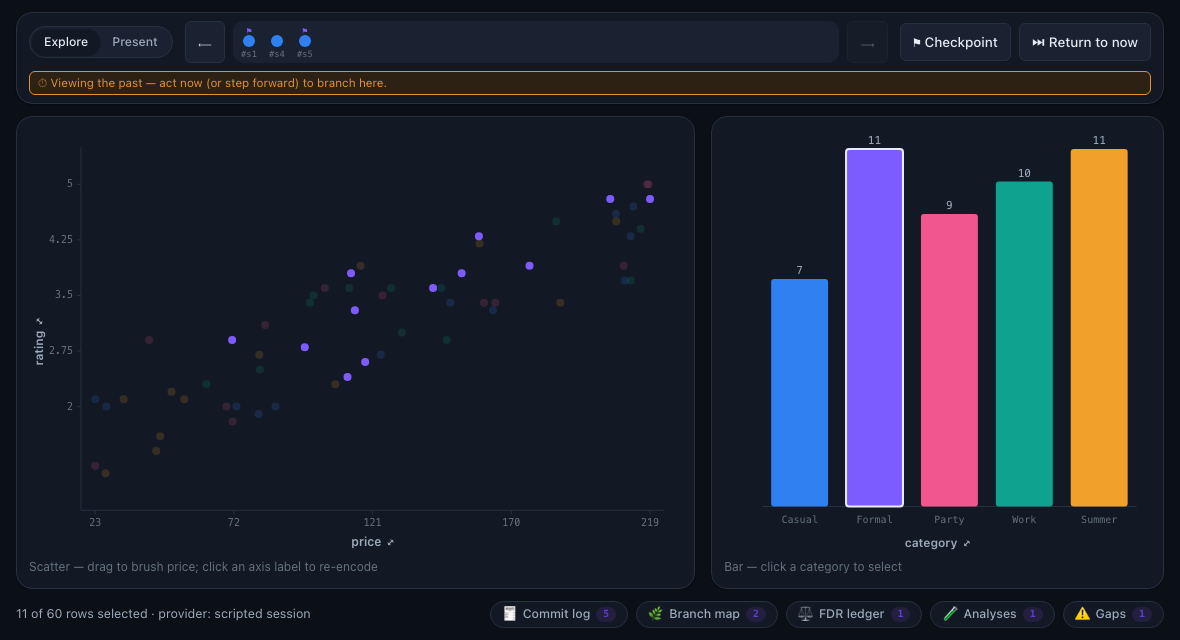
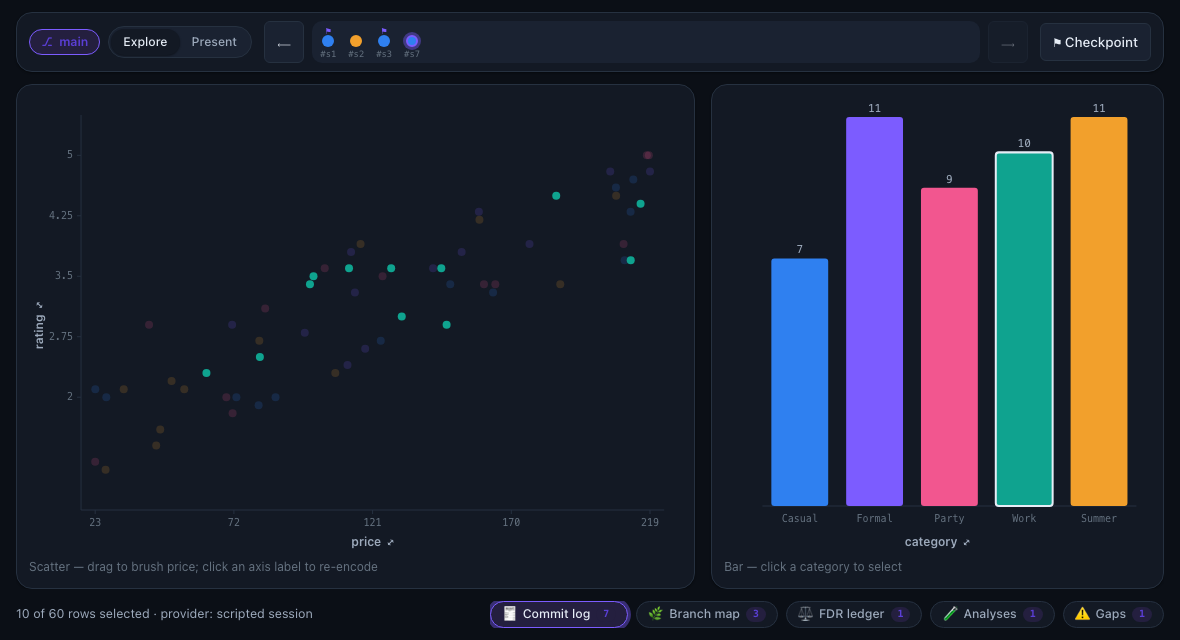
feat(ui/gallery): the BR-2 loop live — fork toast, pill, paths modal, compare, bring-over; smoke + screenshots
The gallery cockpit now wires the whole named-paths family the way a consumer
would: BranchPill in the time bar's pathPill slot, ForkToast + PathsModal +
CompareModal in the cockpit's toast host, and the branch-map report gets
paths + the full context-menu action set (compare routes into CompareModal
with the clicked commit pre-picked).

Four new Playwright smoke scenes over the scripted REAL session, all
end-to-end in headless Chromium:
- fork from the past: pill honestly 'viewing past' after the present-mode
  walk → seek to #s1 → click a bar → the auto-named 'bar-click' path is born,
  the toast announces it, the pill re-attaches; zero page/shell scroll with
  the toast up;
- PathsModal: three paths listed current-first, inline rename to 'my-fork'
  (Enter), switch to main closes the modal and flips the pill;
- branch map: named lane labels (main in violet), Undo honestly disabled on
  the declared-test commit ('never refunds alpha'), Compare with current →
  a real two-path diff (common ancestor #s1, per-side row counts, ≠ selection
  chips, the only-B correlation chip); Esc peels only the top modal;
- Bring this step over: lands a replayedFrom commit whose CommitLog chip says
  'brought over from #x' with its honest '1 overridden' conflict tag.

Screenshots refreshed under UPDATE_SCREENSHOTS=1; new: paths modal, compare
modal, fork toast, pill states light+dark (on-path + viewing-past).
README: 'Named paths — branching you can read' section + the BR-3 endpoint
[…]

diff --git a/ui/gallery/smoke.test.ts b/ui/gallery/smoke.test.ts
@@ -16,6 +16,12 @@
  *     scrolling allowed only INSIDE the modal body;
  *   - ⚑ opens the checkpoint naming modal; Enter lands a REAL checkpoint;
  *   - PRESENT mode is checkpoint-only traversal and dims/blocks the charts;
+ *   - BR-2, the full named-paths loop LIVE: acting from a past cursor forks a
+ *     NAMED path (ForkToast + BranchPill update), the PathsModal renames and
+ *     switches, the branch map wears named lane labels and a per-commit glass
+ *     context menu (undo honestly disabled on an analysis), "Compare with
+ *     current" opens a real two-path diff, and "Bring this step over" lands a
+ *     replayedFrom commit visible in the CommitLog;
  *   - at a MOBILE viewport the charts become a scroll-snap carousel with dot
  *     indicators — still zero page scroll;
  *   - zero console errors throughout.
@@ -39,6 +45,10 @@ const SHOTS = path.join(__dirname, 'screenshots');
 //   UPDATE_SCREENSHOTS=1 npx vitest run ui/gallery/smoke.test.ts
 async function maybeScreenshot(page: Page, options: Parameters<Page['screenshot']>[0]): Promise<void> {
   if (process.env.UPDATE_SCREENSHOTS) await page.screenshot(options);
+}
+/** Element-scoped variant (the pill-state shots crop to the cockpit's top band). */
+async function maybeElementShot(page: Page, selector: string, path: string): Promise<void> {
+  if (process.env.UPDATE_SCREENSHOTS) await page.locator(selector).screenshot({ path });
 }
 
 /** Zero page/shell scroll — the cockpit invariant, asserted at any viewport. */
@@ -231,6 +241,125 @@ describe.skipIf(!existsSync(CHROME))('vizfootprint-ui gallery smoke (real headle
     // back to explore — acting returns
     await page.locator('[data-vzf="time-travel-bar"] [role="tab"]:has-text("Explore")').click();
     await page.waitForSelector('[data-vzf="cockpit"][data-readonly="false"]');
+  }, 30_000);
+
+  it('BR-2: forking from the past auto-names a path — toast up, pill flips to the new path', async () => {
+    // the present-mode walk left the cursor detached in the past → the pill is honest about it
+    const pill = page.locator('[data-vzf="cockpit-top"] [data-vzf="branch-pill"]');
+    expect(await pill.getAttribute('data-state')).toBe('viewing-past');
+    expect(((await pill.textContent()) ?? '')).toContain('viewing past');
+    await maybeElementShot(page, '[data-vzf="cockpit-top"]', path.join(SHOTS, 'gallery-pill-past.png'));
+    await page.emulateMedia({ colorScheme: 'dark' });
+    await page.waitForTimeout(120);
+    await maybeElementShot(page, '[data-vzf="cockpit-top"]', path.join(SHOTS, 'gallery-pill-past-dark.png'));
+    await page.emulateMedia({ colorScheme: 'light' });
+
+    // travel to the very first commit, then ACT → branch-on-act, now NAMED
+    await page.locator('[data-vzf="timeline"] [data-commit]').first().click();
+    await page.locator('svg.vzf-bar rect.vzf-barrect').nth(3).click(); // 'Work' ≠ the agent's Formal
+    // the toast announces the fork with the auto-slugged name; the pill re-attaches
+    await page.waitForSelector('[data-vzf="fork-toast"]');
+    const toastText = (await page.locator('[data-vzf="fork-toast"]').textContent()) ?? '';
+    expect(toastText).toContain('Forked a new path');
+    expect(toastText).toContain('bar-click'); // slug of the emit intent 'bar click'
+    expect(toastText).toContain('safe in Paths');
+    await page.waitForTimeout(300); // let the toast's rise + the pill's colour transition land before shooting
+    await maybeScreenshot(page, { path: path.join(SHOTS, 'gallery-fork-toast.png'), fullPage: false });
+    await page.waitForFunction(() => document.querySelector('[data-vzf="branch-pill"]')?.getAttribute('data-state') === 'on-path');
+    expect((await pill.textContent()) ?? '').toContain('bar-click');
+    await page.locator('[data-vzf="fork-toast-dismiss"]').click();
+    await page.waitForSelector('[data-vzf="fork-toast"]', { state: 'detached' });
+    await expectNoPageOrShellScroll(page); // the toast never takes layout space
+  }, 30_000);
+
+  it('BR-2: the PathsModal renames the fork inline and switches back to main; the pill follows', async () => {
+    await page.locator('[data-vzf="branch-pill"]').click();
+    await page.waitForSelector('[data-vzf-modal="paths"] [role="dialog"]');
+    expect(await page.locator('[data-vzf-modal="paths"] [data-path]').count()).toBeGreaterThanOrEqual(3); // main + the scripted fork + bar-click
+    // the current path sorts first and wears the marker
+    const firstRow = page.locator('[data-vzf-modal="paths"] [data-path]').first();
+    expect(await firstRow.getAttribute('data-path')).toBe('bar-click');
+    expect((await firstRow.locator('.vzf-path-current').textContent()) ?? '').toContain('current');
+    // inline rename: ✎ → type → Enter
+    await firstRow.locator('[data-vzf="path-rename"]').click();
+    await page.locator('[data-vzf-modal="paths"] .vzf-path-rename-input').fill('my-fork');
+    await page.keyboard.press('Enter');
+    await page.waitForSelector('[data-vzf-modal="paths"] [data-path="my-fork"]');
+    await page.waitForTimeout(250); // let the entrance animation land before shooting
+    await maybeScreenshot(page, { path: path.join(SHOTS, 'gallery-paths-modal.png'), fullPage: false });
+    // switching completes the intent: the modal closes, the pill flips to main
+    await page.locator('[data-vzf-modal="paths"] [data-path="main"] [data-vzf="path-switch"]').click();
+    await page.waitForSelector('[data-vzf-modal="paths"]', { state: 'detached' });
+    await page.waitForFunction(() => (document.querySelector('[data-vzf="branch-pill"]')?.textContent ?? '').includes('main'));
+    expect(await page.locator('[data-vzf="branch-pill"]').getAttribute('data-state')).toBe('on-path');
+    await maybeElementShot(page, '[data-vzf="cockpit-top"]', path.join(SHOTS, 'gallery-pill-onpath.png'));
+    await page.emulateMedia({ colorScheme: 'dark' });
+    await page.waitForTimeout(120);
+    await maybeElementShot(page, '[data-vzf="cockpit-top"]', path.join(SHOTS, 'gallery-pill-onpath-dark.png'));
+    await page.emulateMedia({ colorScheme: 'light' });
+  }, 30_000);
+
+  it('BR-2: the branch map wears named lanes; the commit menu is honest; Compare shows a real two-path diff', async () => {
+    await page.locator('[data-report="branches"]').click();
+    await page.waitForSelector('[data-vzf-modal="report-branches"] [data-vzf="branch-map"]');
+    // named lane labels, the current path's in violet (vzf-active)
+    expect(await page.locator('[data-vzf-modal="report-branches"] .vzf-bm-lane-label').count()).toBeGreaterThanOrEqual(3);
+    expect(await page.locator('[data-vzf-modal="report-branches"] .vzf-bm-lane-label.vzf-active').textContent()).toContain('main');
+
+    // honesty first: the declared-test commit's Undo is disabled WITH the reason
+    await page.locator('[data-vzf-modal="report-branches"] g.vzf-bm-node').filter({ hasText: 'test' }).first().click();
+    await page.waitForSelector('[data-vzf="ctx-menu"]');
+    const undoItem = page.locator('[data-vzf="ctx-menu"] [data-ctx="undo"]');
+    expect(await undoItem.isDisabled()).toBe(true);
+    expect((await undoItem.getAttribute('title')) ?? '').toContain('never refunds alpha');
+    await page.keyboard.press('Escape');
+    await page.waitForSelector('[data-vzf="ctx-menu"]', { state: 'detached' });
+
+    // the my-fork tip (the newest commit) → Compare with current
+    await page.locator('[data-vzf-modal="report-branches"] g.vzf-bm-node').last().click();
+    await page.waitForSelector('[data-vzf="ctx-menu"]');
+    await page.locator('[data-vzf="ctx-menu"] [data-ctx="compare"]').click();
+    await page.waitForSelector('[data-vzf-modal="compare"] [data-vzf="compare-ancestor"]');
+    // a REAL diff: common ancestor, per-side row counts, plain-language chips
+    expect((await page.locator('[data-vzf="compare-ancestor"]').textContent()) ?? '').toContain('#');
+    expect((await page.locator('[data-vzf-modal="compare"] [data-side="a"] .vzf-compare-rows').textContent()) ?? '').toContain('rows selected');
+    // the two brushes/selections diverged → a ≠ chip on both sides
+    expect(await page.locator('[data-vzf-modal="compare"] .vzf-diff-changed').count()).toBeGreaterThanOrEqual(2);
+    // main ran the correlation test the fork never did → an only-B analysis chip
+    expect((await page.locator('[data-vzf-modal="compare"] [data-side="b"]').textContent()) ?? '').toContain('correlation');
+    await page.waitForTimeout(250);
+    await maybeScreenshot(page, { path: path.join(SHOTS, 'gallery-compare-modal.png'), fullPage: false });
+    // Esc peels only the top modal (compare); the report closes via its own ✕
+    await page.keyboard.press('Escape');
+    await page.waitForSelector('[data-vzf-modal="compare"]', { state: 'detached' });
+    expect(await page.locator('[data-vzf-modal="report-branches"]').count()).toBe(1);
+    await page.locator('[data-vzf-modal="report-branches"] [aria-label="Close"]').click();
+    await page.waitForSelector('[data-vzf-modal="report-branches"]', { state: 'detached' });
+  }, 30_000);
+
+  it('BR-2: "Bring this step over" lands a replayedFrom commit (with its honest conflict tag) in the CommitLog', async () => {
+    const commitsBefore = Number(await page.locator('[data-report="commits"] .vzf-report-badge').textContent());
+    await page.locator('[data-report="branches"]').click();
+    await page.waitForSelector('[data-vzf-modal="report-branches"] [data-vzf="branch-map"]');
+    // bring the my-fork tip (bar=Work) over to main — the agent's Formal touched the same key → a conflict note
+    await page.locator('[data-vzf-modal="report-branches"] g.vzf-bm-node').last().click();
+    await page.waitForSelector('[data-vzf="ctx-menu"]');
+    await page.locator('[data-vzf="ctx-menu"] [data-ctx="bring-over"]').click();
+    await page.waitForFunction(
+      (n) => Number(document.querySelector('[data-report="commits"] .vzf-report-badge')?.textContent) > n,
+      commitsBefore,
+      { timeout: 8000 },
+    );
+    await page.locator('[data-vzf-modal="report-branches"] [aria-label="Close"]').click();
+    await page.waitForSelector('[data-vzf-modal="report-branches"]', { state: 'detached' });
+    // the landed commit tells its own story in the log
+    await page.locator('[data-report="commits"]').click();
+    await page.waitForSelector('[data-vzf-modal="report-commits"] [data-vzf="commit-log"]');
+    expect((await page.locator('[data-vzf-modal="report-commits"] .vzf-replay').last().textContent()) ?? '').toContain('brought over from #');
+    expect((await page.locator('[data-vzf-modal="report-commits"] .vzf-conflict').last().textContent()) ?? '').toContain('overridden');
+    await page.keyboard.press('Escape');
+    await page.waitForSelector('[data-vzf-modal="report-commits"]', { state: 'detached' });
+    await expectNoPageOrShellScroll(page);
   }, 30_000);
 
   it('dark theme renders (prefers-color-scheme) — raised-scrim glass included', async () => {

diff --git a/ui/gallery/entry.tsx b/ui/gallery/entry.tsx
@@ -20,6 +20,10 @@ import {
   VizBar,
   TimeTravelBar,
   BranchMap,
+  BranchPill,
+  PathsModal,
+  CompareModal,
+  ForkToast,
   CommitLog,
   FdrLedger,
   GapsPanel,
@@ -55,6 +59,10 @@ function App(props: { view: SessionView; rows: readonly GalleryRow[] }): JSX.Ele
   const state: SessionViewState = useSessionView(view);
   const [mode, setMode] = useState<TimeMode>('explore');
   const readOnly = mode === 'present';
+
+  // ── BR-2: the named-paths loop (pill → paths modal; map menu → compare modal) ──
+  const [pathsOpen, setPathsOpen] = useState(false);
+  const [compareWith, setCompareWith] = useState<string | null>(null); // a commit id, or null = closed
 
   // the scatter's fields come from the ENCODING fold (the reencode verb's state)
   const enc = state.encodings['scatter'] ?? {};
@@ -103,12 +111,36 @@ function App(props: { view: SessionView; rows: readonly GalleryRow[] }): JSX.Ele
           checkpoints={state.checkpoints}
           branches={state.branches}
           viewingPast={state.viewingPast}
+          pathPill={<BranchPill paths={state.paths} onClick={() => setPathsOpen(true)} />}
           onSeek={(id) => void view.seek(id)}
           onStepBack={() => void view.stepBack()}
           onStepForward={() => void view.stepForward()}
           onCheckpoint={(label) => void view.checkpoint(label)}
           onReturnToNow={() => void view.returnToNow()}
         />
+      }
+      toast={
+        <>
+          <ForkToast events={state.paths.events} onOpenPaths={() => setPathsOpen(true)} />
+          <PathsModal
+            open={pathsOpen}
+            onClose={() => setPathsOpen(false)}
+            paths={state.paths}
+            cursor={state.cursor}
+            readOnly={readOnly}
+            onSwitch={(name) => void view.switchPath(name)}
+            onRename={(from, to) => void view.renamePath(from, to)}
+            onNewPath={(commitId) => void view.newPathAt(commitId)}
+          />
+          <CompareModal
+            open={compareWith !== null}
+            onClose={() => setCompareWith(null)}
+            paths={state.paths}
+            initialA={compareWith ?? undefined}
+            initialB={state.paths.current ?? state.cursor ?? undefined}
+            onCompare={(a, b) => view.compare(a, b)}
+          />
+        </>
       }
       charts={[
         {
@@ -166,7 +198,18 @@ function App(props: { view: SessionView; rows: readonly GalleryRow[] }): JSX.Ele
           icon: '🌿',
           badge: state.branches.length,
           content: (
-            <BranchMap commits={state.commits} cursor={state.cursor} head={state.head} checkpoints={state.checkpoints} onSeek={(id) => void view.seek(id)} />
+            <BranchMap
+              commits={state.commits}
+              cursor={state.cursor}
+              head={state.head}
+              checkpoints={state.checkpoints}
+              paths={state.paths.list}
+              onSeek={(id) => void view.seek(id)}
+              onNewPath={(id) => void view.newPathAt(id)}
+              onBringOver={(id) => void view.bringOver(id)}
+              onUndo={(id) => void view.undo(id)}
+              onCompare={(id) => setCompareWith(id)}
+            />
           ),
         },
         {

diff --git a/ui/README.md b/ui/README.md
@@ -3,8 +3,8 @@
 The designed, reusable component library for [vizfootprint](../README.md) — a headless
 session-view adapter plus React components that render a coordinated, cause-tagged,
 branching-provenance dashboard: charts with interactive (re-encodable) axes, a
-two-mode time-travel bar, a git-graph branch map, and the honesty panels
-(commit log, online-FDR two-truths ledger, gaps, readiness).
+two-mode time-travel bar, a git-graph branch map with named paths, and the honesty
+panels (commit log, online-FDR two-truths ledger, gaps, readiness).
 
 Part of the footprintjs family (the explainable-ui / agentthinkingui pattern):
 ESM + UMD bundles, React `>=18` as a peer, one stylesheet, `.d.ts` types.
@@ -77,6 +77,52 @@ the page.
 Clicking ⚑ opens the checkpoint namer (`<CheckpointModal>`): one autofocused
 field, Enter/Save commits through the adapter's `checkpoint` action, and the
 prompt shows which commit the flag will mark.
+
+## Named paths — branching you can read
+
+Your work is a story that can branch: seek back in time, act, and the session
+starts a second line of work — now with a NAME (like branches in git, but in
+plain words). The `branches/` component family makes that loop visible:
+
+- **`<BranchPill>`** — the always-visible "which path am I on?" chip, made for
+  the time bar's `pathPill` slot (it sits beside Explore/Present). Violet with
+  the path's name while you are on one; amber "viewing past" while you have
+  travelled back (acting there starts a new path automatically); quiet before
+  the first step. Clicking it opens the Paths list.
+- **`<PathsModal>`** — every named path: step count, latest commit, a "current"
+  marker. Click one to switch to it. Rename inline with ✎. "New path from
+  here" forks at the cursor. In Present mode the list is view-only.
+- **`<CompareModal>`** — two positions side by side: the common-ancestor line
+  on top, each side's row count, and every difference as a plain-language chip
+  ("bar: category is Work" vs "bar: category is Formal"; "correlation: test
+  ran (p = 0.004)" only on the side that ran it). An empty diff says
+  "identical since #x" — and a rejected compare shows its reason.
+- **`<ForkToast>`** — a small notice when acting from the past forks a new
+  path: *"Forked a new path 'bar-click' — your previous story is safe in
+  Paths."* Non-blocking, dismissible, auto-hides, respects reduced motion.
+  Mount it in the cockpit's `toast` slot.
+- **`<BranchMap>` upgrades** — pass `paths` and each lane wears its path's
+  name; pass the action callbacks and clicking a commit opens a small glass
+  menu: *Jump here · New path here · Bring this step over · Undo this step ·
+  Compare with current*. Actions that cannot apply are disabled **with the
+  reason** (an analysis can't be un-run — the FDR ledger never refunds alpha).
+
+![the paths modal](gallery/screenshots/gallery-paths-modal.png)
+
+![compare two positions](gallery/screenshots/gallery-compare-modal.png)
+
+The adapter carries it all: `state.paths` (the list, the current path or the
+detached position, and the journal the toast watches) plus the actions
+`switchPath` / `renamePath` / `newPathAt` / `compare` / `bringOver` / `undo`.
+A brought-over step lands as an ordinary commit whose chip in the CommitLog
+says `↷ brought over from #x` (an undo says `⎌ undoes #x`, and a conflicting
+override wears `⚠ n overridden`) — the story survives in the log itself.
+
+Over a polled server, the actions POST to their own endpoints (all
+overridable via `pollingSource({ endpoints })`): `/api/paths` (body
+`{action: 'switch'|'rename'|'new', …}`), `/api/compare` (`{a, b}` — responds
+with the session's `compare()` JSON), `/api/bring-over` and `/api/undo`
+(`{commitId}`), while `/api/state` gains a `paths` slice.
 
 ## The layers (each importable alone)
 
